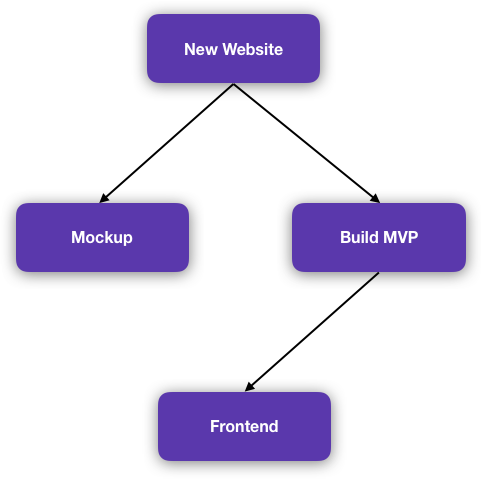
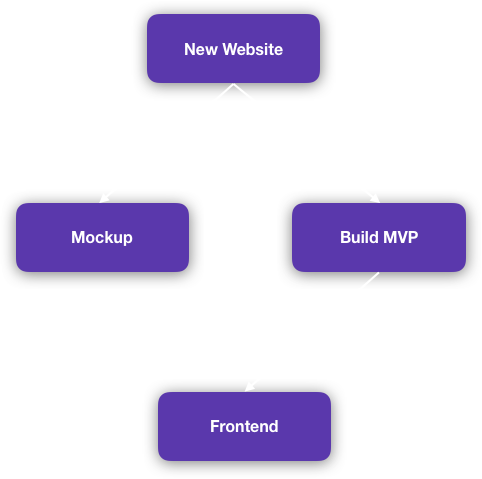
Add white graph lines

diff --git a/kanception/src/App.js b/kanception/src/App.js
@@ -229,6 +229,9 @@ const App = props => {
 
       const spaces = await result.json()
       props.dispatch(setSpaces({spaces: spaces}))
+      if (spaces.length > 0) {
+        props.dispatch(setSelectedTeam({team: spaces[0]._id}))
+      }
 
     } catch(error) {
       console.log(error)
@@ -250,6 +253,10 @@ const App = props => {
 
       const projects = await result.json()
       props.dispatch(setProjects({projects: projects}))
+
+      if (projects.length > 0) {
+        props.dispatch(setSelectedProject({project: projects[0]._id}))
+      }
 
     } catch(error) {
       console.log(error)
@@ -285,7 +292,7 @@ const App = props => {
       props.dispatch(setTeams({teams: results}))
 
       if (results.length > 0) {
-        props.dispatch(setSelectedTeam({team: results[0]._id}))
+        console.log(results[0])
         fetchMemberProfiles(props.selectedTeam)
         //fetchNewTeamCards(props.selectedTeam)
       }
